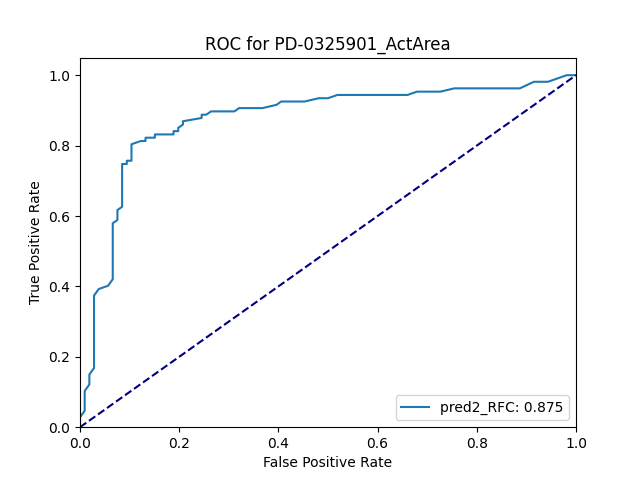
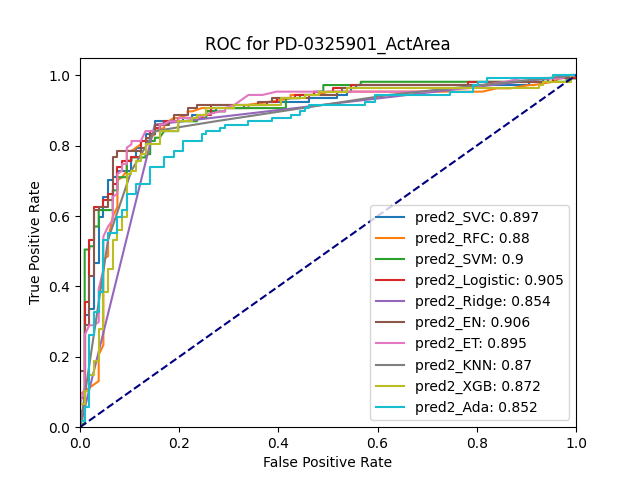
commit files before merge 2

Changed region(s): [[0.5625, 0.4062, 0.9062, 0.875], [0.125, 0.1562, 0.9062, 0.875]]

diff --git a/final_run_10x_nested_redo_bf.py b/final_run_10x_nested_redo_bf.py
@@ -1,0 +1,247 @@
+
+import pandas as pd
+import numpy as np
+
+from config import Config
+from sklearn.metrics import roc_curve, auc
+from functions import pickle_objects, unpickle_objects
+from DBM_toolbox.data_manipulation import data_utils
+import matplotlib.pyplot as plt
+from sklearn.decomposition import PCA
+from sklearn.preprocessing import StandardScaler
+
+config = Config("testall/config.yaml")
+algos = config.raw_dict["modeling"]["general"]["algorithms"]
+metric = config.raw_dict["modeling"]["general"]["metric"]
+rng = np.random.default_rng(42)
+
+outer_folds = 10
+inner_folds = 10
+
+########################################
+final_results = dict()
+feature_importances = dict()
+base_models = dict()
+fprs = dict()
+tprs = dict()
+roc_aucs = dict()
+
+# for n in range(23):  # for each target
+for n in [4]:
+    idx = str(n+1)
+    if len(idx) == 1:
+        idx = '0' + idx
+
+    final_data2 = unpickle_objects('f_testall_data_' + idx + '.pkl')
+
+    # final_data = unpickle_objects('f_testmin_2_data_2022-08-04-13-30-00-019951.pkl')
+
+    target_name = final_data2.dataframe.columns[-1]
+    print(target_name)
+
+    base_models[target_name] = dict()
+
+    final_data = final_data.to_binary(target=target_name)
+
+    n_samples = len(final_data.dataframe.index)
+    split_size = np.floor(n_samples/outer_folds)
+    outer_mixed = rng.choice(final_data.dataframe.index, size=n_samples, replace=False)
+
+    outer_train_idx = dict()
+    outer_test_idx = dict()
+    inner_train_idx = dict()
+    inner_test_idx = dict()
+    feature_importances[target_name] = dict()
+    final_results[target_name] = pd.DataFrame(final_data.dataframe.iloc[:, -1].copy())  # truth
+
+    trained_models = config.get_models(dataset=final_data, method="standard")
+
+    for outer_loop in range(outer_folds):
+
+        feature_importances[target_name][outer_loop] = dict()
+        if outer_loop == outer_folds - 1:  # if it is the last split, put all remaining samples in
+            outer_test_idx[outer_loop] = outer_mixed[int(outer_loop * split_size): -1]
+        else:
+            outer_test_idx[outer_loop] = outer_mixed[int(outer_loop * split_size): int((outer_loop + 1) * split_size)]
+        outer_train_idx[outer_loop] = [x for x in outer_mixed if x not in outer_test_idx[outer_loop]]
+
+        rest_dataset, valid_dataset = final_data.split(train_index=outer_train_idx[outer_loop], test_index=outer_test_idx[outer_loop])
+
+        n_inner_samples = len(rest_dataset.dataframe.index)
+        split_inner_size = np.floor(n_inner_samples / inner_folds)
+        inner_mixed = rng.choice(rest_dataset.dataframe.index, size=n_inner_samples, replace=False)
+
+        inner_train_idx[outer_loop] = dict()
+        inner_test_idx[outer_loop] = dict()
+        base_models[target_name][outer_loop] = dict()
+
+        first_level_preds = pd.DataFrame(final_data.dataframe.iloc[:, -1].copy())  # truth
+
+        for inner_loop in range(inner_folds):
+            print(f"target: {target_name} ({idx}), out: {outer_loop+1}/{outer_folds}, in: {inner_loop+1}/{inner_folds}")
+            if inner_loop == inner_folds - 1:
+                inner_test_idx[outer_loop][inner_loop] = inner_mixed[int(inner_loop * split_inner_size): -1]
+            else:
+                inner_test_idx[outer_loop][inner_loop] = inner_mixed[int(inner_loop * split_inner_size): int((inner_loop + 1) * split_inner_size)]
+            inner_train_idx[outer_loop][inner_loop] = [x for x in inner_mixed if x not in inner_test_idx[outer_loop][inner_loop]]
+
+            train_dataset, test_dataset = rest_dataset.split(train_index=inner_train_idx[outer_loop][inner_loop], test_index=inner_test_idx[outer_loop][inner_loop])
+
+            base_models[target_name][outer_loop][inner_loop] = dict()
+
+            for omic in trained_models[target_name].keys():  # for each omic type
+                if omic != 'complete':
+                    print(f'omic: {omic}')
+                    train_features = train_dataset.to_pandas(omic=omic)
+                    train_labels = train_dataset.to_pandas(omic='DRUGS').values.ravel()
+                    test_features = test_dataset.to_pandas(omic=omic)
+                    test_labels = test_dataset.to_pandas(omic='DRUGS').values.ravel()
+
+                    base_models[target_name][outer_loop][inner_loop][omic] = dict()
+
+                    for algo in trained_models[target_name][omic].keys():  # for each algo
+                        print(f'algo: {algo}')
+                        this_model = trained_models[target_name][omic][algo]['estimator']
+                        this_model.fit(train_features, train_labels)
+                        try:
+                            this_predictions = this_model.predict_proba(test_features)
+                            this_predictions = this_predictions[:, 1]
+                        except:
+                            this_predictions = this_model.predict(test_features)
+                        first_level_preds.loc[inner_test_idx[outer_loop][inner_loop], 'pred_' + omic + '_' + algo] = this_predictions
+                        try:
+                            base_models[target_name][outer_loop][inner_loop][omic][algo] = this_model.feature_importances_
+                        except:
+                            try:
+                                base_models[target_name][outer_loop][inner_loop][omic][algo] = this_model.coef_
+                            except:
+                                base_models[target_name][outer_loop][inner_loop][omic][algo] = 'None'
+
+        for omic in trained_models[target_name].keys():  # for each omic type
+            if omic != 'complete':
+                print(f'omic: {omic}')
+                train_features = rest_dataset.to_pandas(omic=omic)
+                train_labels = rest_dataset.to_pandas(omic='DRUGS').values.ravel()
+                test_features = valid_dataset.to_pandas(omic=omic)
+                test_labels = valid_dataset.to_pandas(omic='DRUGS').values.ravel()
+                for algo in trained_models[target_name][omic].keys():  # for each algo
+                    print(f'algo: {algo}')
+                    this_model = trained_models[target_name][omic][algo]['estimator']
+                    this_model.fit(train_features, train_labels)
+                    try:
+                        this_predictions = this_model.predict_proba(test_features)
+                        this_predictions = this_predictions[:, 1]
+                    except:
+                        this_predictions = this_model.predict(test_features)
+                    first_level_preds.loc[outer_test_idx[outer_loop], 'pred_' + omic + '_' + algo] = this_predictions
+
+        cols = first_level_preds.columns
+        train_features = first_level_preds.loc[outer_train_idx[outer_loop], cols[1:]]
+        train_labels = first_level_preds.loc[outer_train_idx[outer_loop], cols[0]]
+        test_features = first_level_preds.loc[outer_test_idx[outer_loop], cols[1:]]
+        test_labels = first_level_preds.loc[outer_test_idx[outer_loop], cols[0]]
+        train_features, train_labels = data_utils.merge_and_clean(train_features, train_labels)
+
+
+
+        for algo in trained_models[target_name][omic].keys():
+            this_model = trained_models[target_name][omic][algo]['estimator']
+            this_model.fit(train_features, train_labels)
+            try:
+                this_predictions = this_model.predict_proba(test_features)
+                this_predictions = this_predictions[:, 1]
+            except:
+                this_predictions = this_model.predict(test_features)
+            try:
+                f_imp = this_model.feature_importances_
+            except:
+                f_imp = np.nan
+            feature_importances[target_name][outer_loop][algo] = pd.DataFrame(f_imp, index=this_model.feature_names_in_, columns=[algo])
+            final_results[target_name].loc[outer_test_idx[outer_loop], 'pred2_' + algo] = this_predictions
+            pickle_objects(final_results, "final_results.pkl")
+
+    # draw ROC curves
+    fpr = dict()
+    tpr = dict()
+    roc_auc = dict()
+    global_models = [x for x in final_results[target_name].columns if x.startswith('pred2')]
+    plt.figure()
+    for global_model in global_models:
+        y_score = final_results[target_name].loc[:, global_model]
+        y_score = y_score[y_score.isna() == False]
+        y_true = final_results[target_name].loc[:, target_name]
+        y_true = y_true.loc[y_score.index]
+        fpr[global_model], tpr[global_model], _ = roc_curve(y_true, y_score)
+        roc_auc[global_model] = auc(fpr[global_model], tpr[global_model])
+        plt.plot(fpr[global_model], tpr[global_model], label=f"{global_model}: {round(roc_auc[global_model], 3)}")
+    plt.plot([0, 1], [0, 1], color="navy", linestyle="--")
+    plt.xlim([0.0, 1.0])
+    plt.ylim([0.0, 1.05])
+    plt.xlabel("False Positive Rate")
+    plt.ylabel("True Positive Rate")
+    plt.title(f"ROC for {target_name}")
+    plt.legend(loc="lower right")
+    plt.show()
+    plt.savefig(f'ROC_{target_name}')
+
+    fprs[target_name] = fpr
+    tprs[target_name] = tpr
+    roc_aucs[target_name] = roc_auc
+    config.save(to_save=[fprs, tprs, roc_aucs], name="roc_info_bf")
+    config.save(to_save=final_results, name="final_results_bf")
+    config.save(to_save=feature_importances, name="features_imp_bf")
+    config.save(to_save=base_models, name="base_models_bf")
+
+#################################################
+
+base_models = unpickle_objects('base_models_2022-09-21-06-48-52-057051.pkl')
+final_data = unpickle_objects('f_testall_data_' + '01' + '.pkl')
+
+res = dict()
+for target in base_models.keys():
+    res[target] = dict()
+    for omic in ['RPPA', 'RNA', 'MIRNA', 'META', 'DNA', 'PATHWAYS', 'TYPE']:
+        res[target][omic] = dict()
+        for algo in ['RFC', 'SVM', 'Logistic', 'Ridge', 'EN', 'ET', 'XGB', 'Ada']:
+            res[target][omic][algo] = pd.DataFrame(index=final_data.to_pandas(omic=omic).columns)
+
+
+for n_o in range(outer_folds):
+    for n_i in range(inner_folds):
+        for target in base_models.keys():
+            r = base_models[target][n_o][n_i]
+            for omic in ['RPPA', 'RNA', 'MIRNA', 'META', 'DNA', 'PATHWAYS', 'TYPE']:
+                for algo in ['RFC', 'SVM', 'Logistic', 'Ridge', 'EN', 'ET', 'XGB', 'Ada']:
+                    n = str(n_o) + str(n_i)
+                    if len(r[omic][algo].shape) == 1:
+                        res[target][omic][algo][n] = r[omic][algo]
+                    else:
+                        res[target][omic][algo][n] = r[omic][algo][0]
+
+
+for target in res.keys():
+    for omic in res[target].keys():
+        x = pd.DataFrame(index=res[target][omic]['RFC'].index)
+        for algo in res[target][omic].keys():
+            means = abs(res[target][omic][algo]).mean(axis=1)
+            stdevs = abs(res[target][omic][algo]).std(axis=1)
+            x[f'{algo}_mean'] = means
+            # x[f'{algo}_std'] = stdevs
+
+        x.to_csv(f'{target}_{omic}.csv')
+
+        xt = StandardScaler().fit_transform(x.transpose())
+        pca = PCA(n_components=2)
+        principalComponents = pca.fit_transform(xt)
+        principal_df = pd.DataFrame(data=principalComponents, columns=['principal component 1', 'principal component 2'])
+        fig = plt.figure(figsize=(8, 8))
+        ax = fig.add_subplot(1, 1, 1)
+        ax.set_xlabel('PC1', fontsize=15)
+        ax.set_ylabel('PC2', fontsize=15)
+        ax.set_title(f'PCA-{omic}-{target}', fontsize=20)
+        for i, algo in enumerate(x.columns):
+            ax.scatter(principal_df.loc[i, 'principal component 1'], principal_df.loc[i, 'principal component 2'])
+        ax.legend(x.columns)
+        ax.grid()
+        plt.show()
+        plt.savefig(f'PCA-{omic}-{target}')

diff --git a/test.py b/test.py
@@ -1,0 +1,32 @@
+import pandas as pd
+import seaborn as sns
+from sklearn.linear_model import LinearRegression
+
+plt.figure()
+
+d = pd.concat([pr, df], axis=1)
+
+# Create the scatter plot
+sns.scatterplot(x='pred2_RFC', y='PD-0325901_ActArea', data=d)
+plt.xlabel('Prediction')
+plt.ylabel('Sensitivity (ActArea)')
+plt.show()
+# Show the plot
+plt.savefig('PD0325901')
+
+x = d['pred2_RFC']
+y = d['PD-0325901_ActArea']
+model = LinearRegression().fit(x.values.reshape(-1,1), y)
+r_sq = model.score(x.values.reshape(-1,1), y)
+
+
+
+d['r'] = np.where(((d['pred2_RFC'] > 0.5) & (d['PD-0325901_ActArea'] > 2)) | ((d['pred2_RFC'] < 0.5) & (d['PD-0325901_ActArea'] < 2)), 1, 0)
+
+d = d.dropna()
+
+dn = d[d['pred2_RFC'] < 0.5]
+dp = d[d['pred2_RFC'] > 0.5]
+
+ppv = dp['r'].mean()
+npv = dn['r'].mean()
